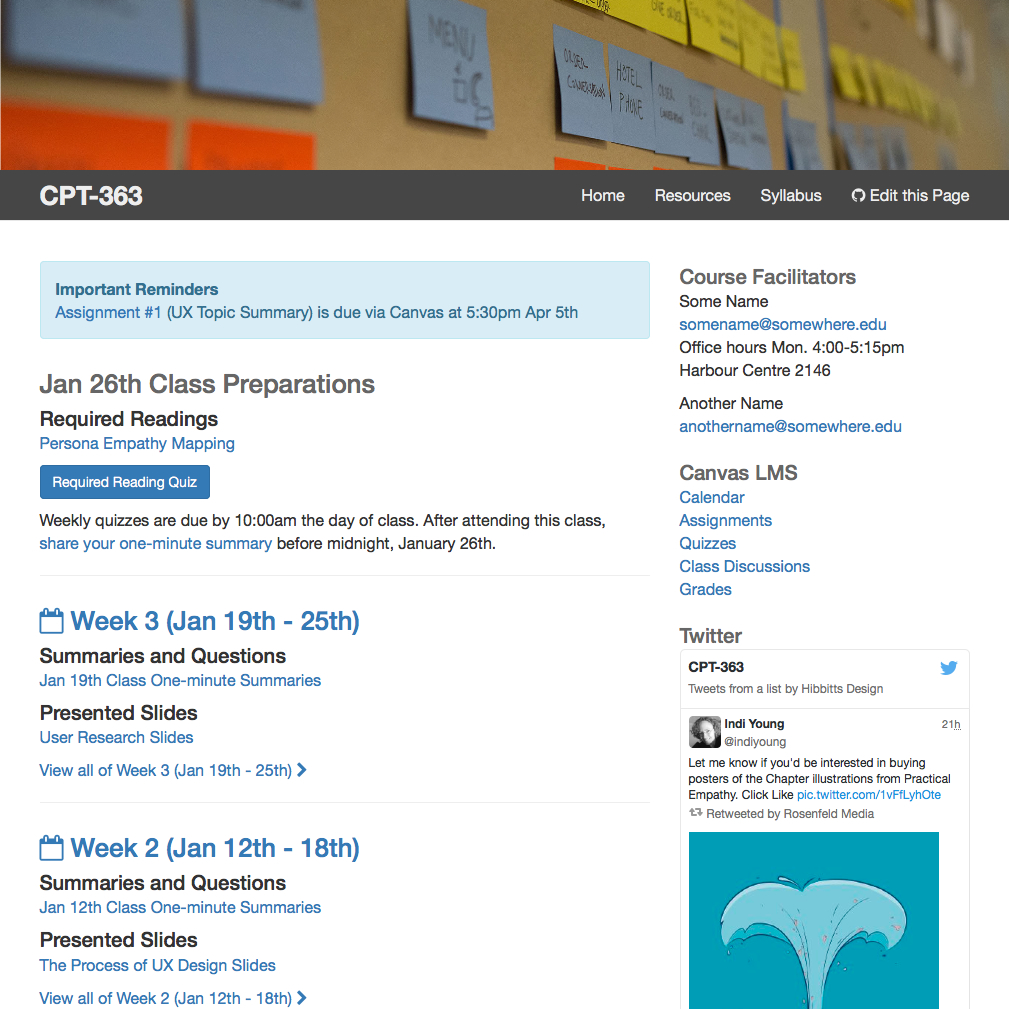
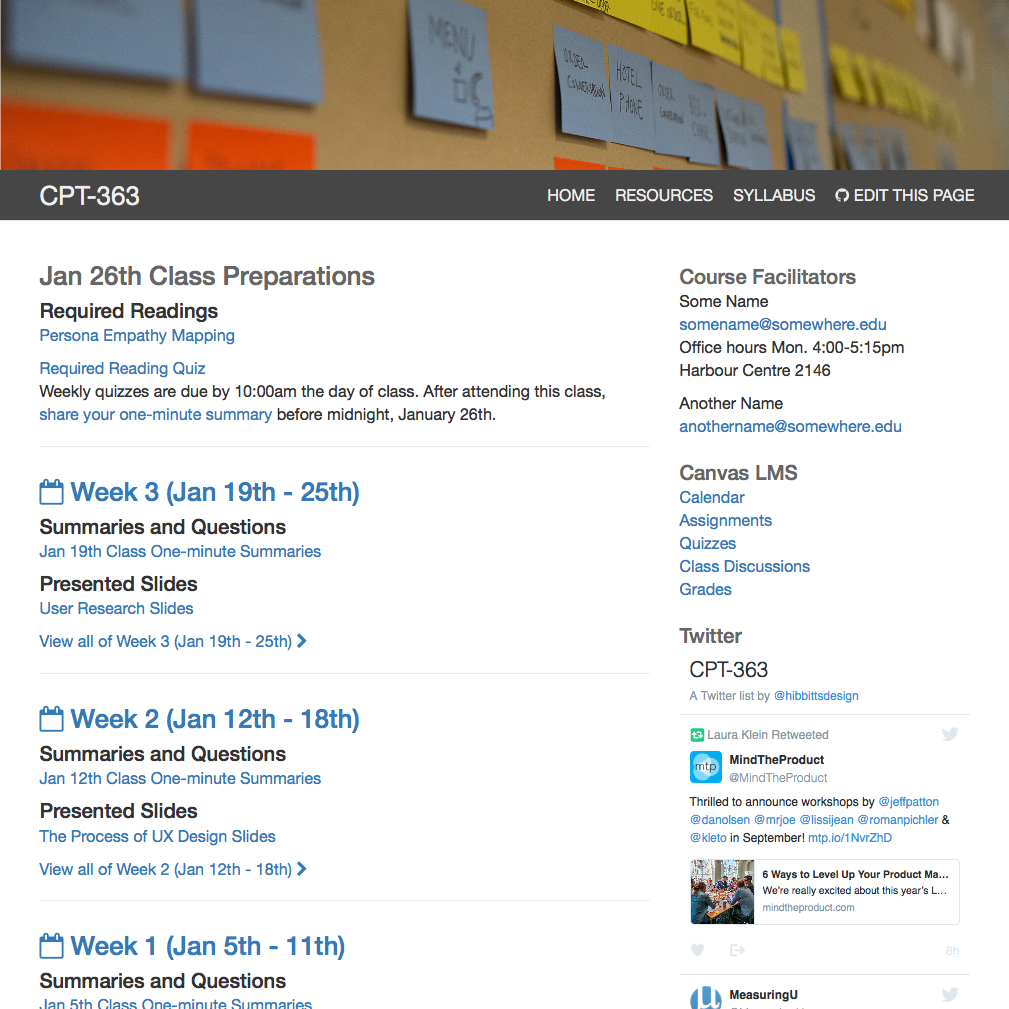
theme

diff --git a/user/themes/course-hub-bootstrap/css/bootstrap.css b/user/themes/course-hub-bootstrap/css/bootstrap.css
@@ -4,6 +4,7 @@
 
 .navbar .nav > li > a {
     color:  #EEEEEE;
+    text-transform: uppercase;
 }
 
 .navbar .nav > li > a:hover {
@@ -12,6 +13,11 @@
 
 .navbar-brand {
     color: #EEEEEE !important;
+}
+
+.navbar-nav > li > a {
+    padding-left: 10px;
+    padding-right: 10px;
 }
 
 h1,

diff --git a/user/themes/course-hub-bootstrap/css/custom.css b/user/themes/course-hub-bootstrap/css/custom.css
@@ -45,7 +45,7 @@
     border-radius: .2em;
 }
 
-.sidebar h5 {
+.sidebar-content h5 {
   color: #666666;
   margin-top: 24px;
   margin-bottom: 2px;

diff --git a/user/themes/course-hub-bootstrap/CHANGELOG.md b/user/themes/course-hub-bootstrap/CHANGELOG.md
@@ -1,3 +1,25 @@
+# v1.1.0
+## 04/18/2016
+
+1. [](#improved)
+    * Updated navbar styling
+
+# v1.0.2
+## 04/13/2016
+
+1. [](#bugfix)
+    * Restored Error and Problems plugins as dependencies
+
+# v1.0.1
+## 04/13/2016
+
+1. [](#new)
+    * Added support for Sidebar plugin widgets display
+1. [](#improved)
+    * Updated default search results page display
+1. [](#bugfix)
+    * Homepage recognizes URL flag to only display page content
+
 # v1.0.0
 ## 03/17/2016
 
